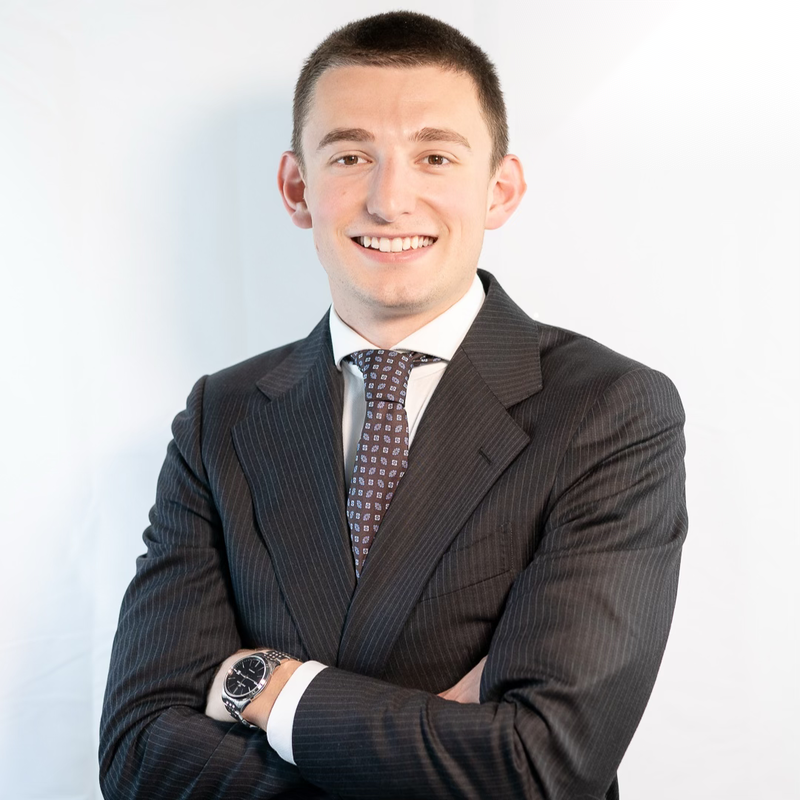
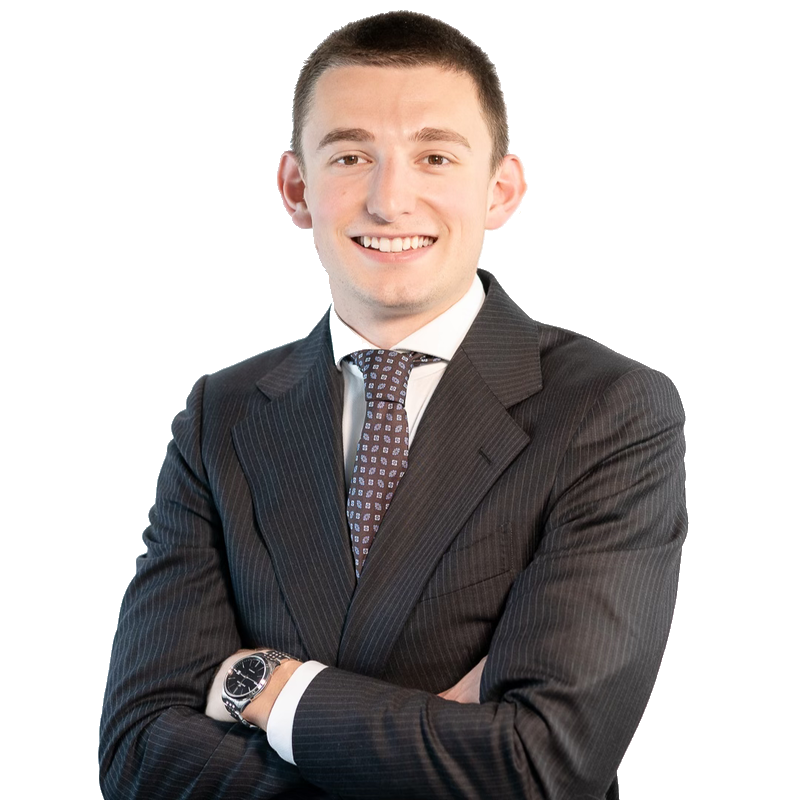
I fondatori: foto allineate e sfondo pulito
Tre cose.

Il collegamento a LinkedIn finiva a tre altezze diverse perche' le
biografie non sono lunghe uguali. Adesso ogni colonna e' alta
quanto la cella e il collegamento sta in fondo: le tre scritte
cadono sulla stessa riga.

Sul telefono le foto stavano a sinistra mentre il testo occupava
tutta la larghezza, e sembravano spostate. Adesso sono centrate
sotto il telefono e restano a sinistra da tablet in su, dove la
colonna e' larga quanto la foto.

E la foto di Filippo aveva il fondo grigio-azzurro mentre le altre
due sono su bianco. L'ho schiarito partendo dai bordi e camminando
solo dentro il fondo: cosi' la camicia bianca, che e' circondata
dalla giacca scura, non viene toccata. La pelle e' calda, il fondo
no, e questo basta a non mangiare le guance: al primo tentativo
senza quel controllo se n'era portata via un pezzo. L'originale e'
al sicuro nella cartella di lavoro, se la foto nuova non convince.

Changed region(s): [[0.1875, 0.0938, 0.4375, 0.5], [0.0, 0.5312, 0.2188, 1.0]]

diff --git a/app/manifesto/page.tsx b/app/manifesto/page.tsx
@@ -104,8 +104,11 @@ export default async function ManifestoPage() {
           <h2 className="ds-display text-title">{t('foundersTitle')}</h2>
           <ul className="mt-12 grid gap-x-8 gap-y-12 md:grid-cols-3">
             {FOUNDERS.map((f) => (
-              <li key={f.name}>
-                <div className="relative aspect-square w-full max-w-[220px] overflow-hidden rounded-2xl border border-rule-paper bg-white">
+              /* Colonna alta quanto la cella: le biografie non hanno la
+                 stessa lunghezza, e senza questo il collegamento a
+                 LinkedIn finiva a tre altezze diverse. */
+              <li key={f.name} className="flex h-full flex-col">
+                <div className="relative mx-auto aspect-square w-full max-w-[220px] overflow-hidden rounded-2xl border border-rule-paper bg-white md:mx-0">
                   <Image
                     src={f.image}
                     alt={f.name}
@@ -121,7 +124,7 @@ export default async function ManifestoPage() {
                   href={f.linkedin}
                   target="_blank"
                   rel="noopener noreferrer"
-                  className="ds-link mt-3 inline-flex min-h-[44px] items-center text-fine no-underline hover:text-accent"
+                  className="ds-link mt-auto inline-flex min-h-[44px] items-center self-start pt-3 text-fine no-underline hover:text-accent"
                 >
                   LinkedIn
                 </a>
